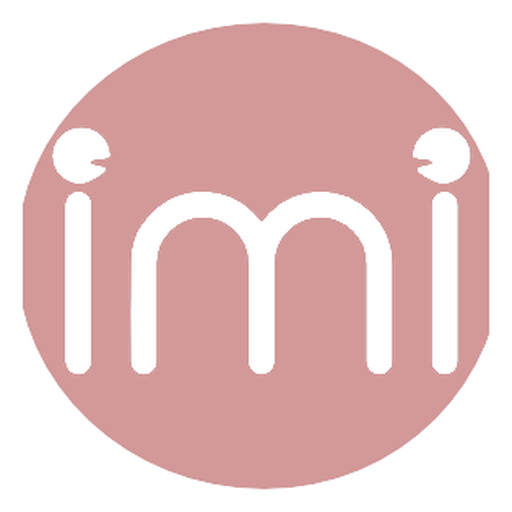
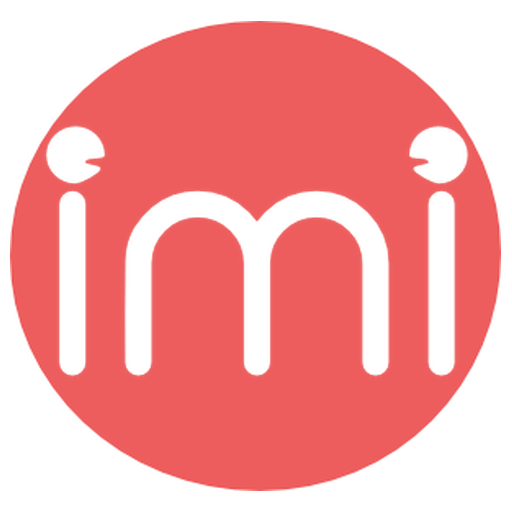
Use the real Similarize mark: red circle with white imi, transparent corners

diff --git a/index.html b/index.html
@@ -10,10 +10,10 @@ layout: null
   <meta name="description" content="Type a question or fact in 300 characters. Similarize writes calmer, clearer versions so more people could agree — then vote. A Flight Enabled company.">
   <meta name="theme-color" content="#15803d">
   <link rel="canonical" href="https://www.similarize.com/">
-  <link rel="icon" href="icon.svg" type="image/svg+xml">
-  <link rel="icon" href="icon-32.png" type="image/png" sizes="32x32">
-  <link rel="apple-touch-icon" href="apple-touch-icon.png">
-  <link rel="manifest" href="manifest.webmanifest">
+  <link rel="icon" href="icon.svg?v=20260901c" type="image/svg+xml">
+  <link rel="icon" href="icon-32.png?v=20260901c" type="image/png" sizes="32x32">
+  <link rel="apple-touch-icon" href="apple-touch-icon.png?v=20260901c">
+  <link rel="manifest" href="manifest.webmanifest?v=20260901c">
   <meta property="og:title" content="Similarize — Word it so more people can agree">
   <meta property="og:description" content="Unfold a hard idea until more people can agree with it. A Flight Enabled company.">
   <meta property="og:url" content="https://www.similarize.com/">
